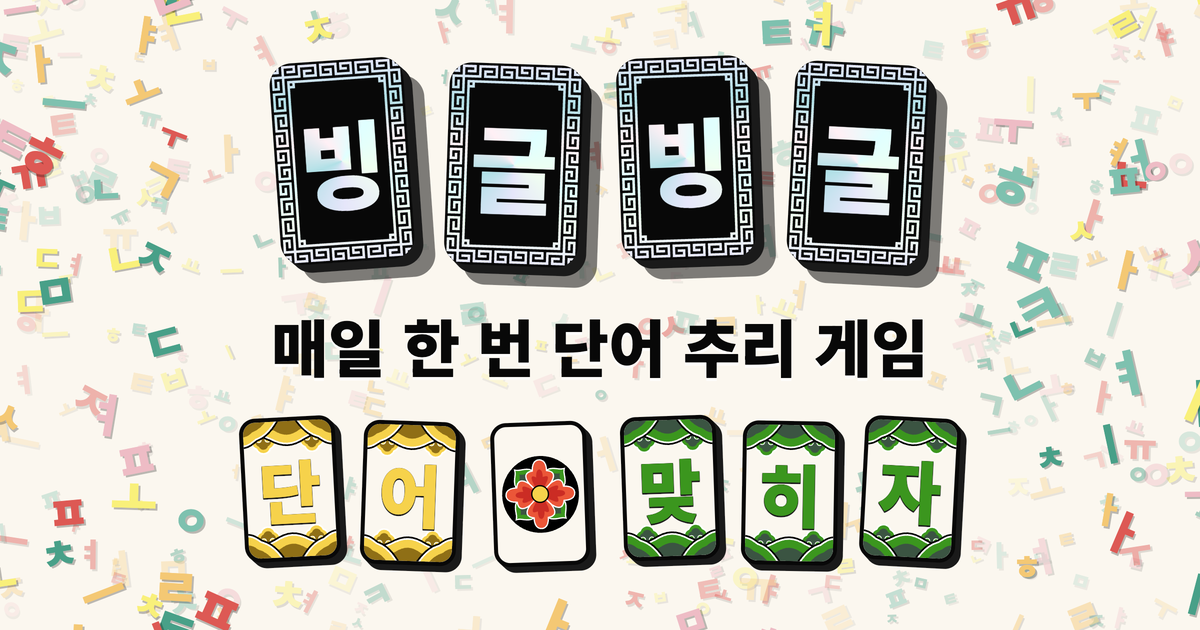
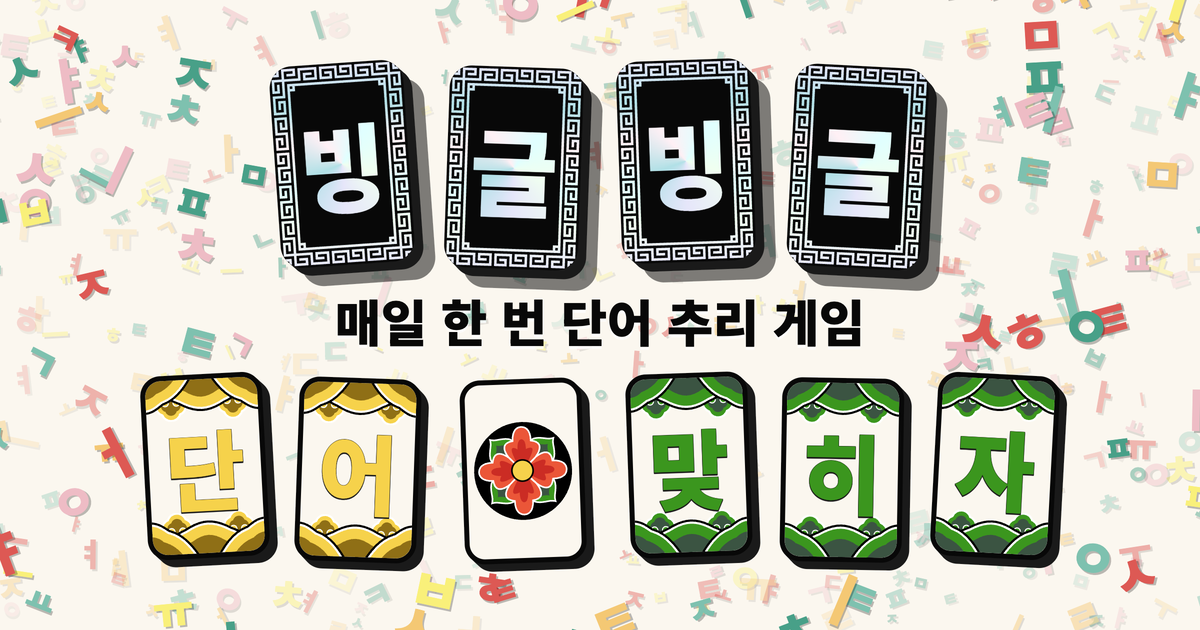
regenerate assets

diff --git a/src/asset-generation/SocialPreview.tsx b/src/asset-generation/SocialPreview.tsx
@@ -58,7 +58,7 @@ const confettiColors = [
 ] as const;
 
 const BACKGROUND_CONFETTI_SEED = 0x3d9a71;
-const FOREGROUND_CONFETTI_SEED = 0xc0ffee;
+const FOREGROUND_CONFETTI_SEED = 0x7a9d3f;
 const BACKGROUND_CONFETTI_COUNT = 440;
 const FOREGROUND_CONFETTI_COUNT = 110;
 
@@ -89,13 +89,17 @@ const backgroundConfettiParticles = generateConfettiParticles({
   minimumSize: 14,
   seed: BACKGROUND_CONFETTI_SEED,
 });
+// Keep full-color foreground jamo off the main content. Background confetti
+// still sits behind these areas, but foreground glyphs should not cross text or tiles.
+const foregroundConfettiExclusionAreas = [
+  { maximumLeft: 79, maximumTop: 46.5, minimumLeft: 21.2, minimumTop: 6.8 },
+  { maximumLeft: 74, maximumTop: 57.4, minimumLeft: 26, minimumTop: 45 },
+  { maximumLeft: 90.2, maximumTop: 92.8, minimumLeft: 9.8, minimumTop: 57 },
+] as const satisfies readonly ConfettiExclusionArea[];
+
 const foregroundConfettiParticles = generateConfettiParticles({
   count: FOREGROUND_CONFETTI_COUNT,
-  excludedAreas: [
-    // Keep full-color foreground jamo off the main content. Background confetti
-    // still sits behind this area, but foreground glyphs should not cross text or tiles.
-    { maximumLeft: 84, maximumTop: 96, minimumLeft: 16, minimumTop: 6 },
-  ],
+  excludedAreas: foregroundConfettiExclusionAreas,
   maximumOpacity: 1,
   maximumSize: 58,
   minimumOpacity: 1,

diff --git a/src/asset-generation/SocialPreview.module.css b/src/asset-generation/SocialPreview.module.css
@@ -53,7 +53,7 @@
   display: flex;
   flex-direction: column;
   align-items: center;
-  gap: 52px;
+  gap: 30px;
   transform: translateY(-4px);
 }
 
@@ -114,17 +114,17 @@
 }
 
 .description {
-  margin: 0 0 -10px;
+  margin: 0;
   color: var(--color-text);
   font-family: var(--font-family-ui);
-  font-size: 62px;
+  font-size: 50px;
   font-weight: 900;
   line-height: 1;
   text-shadow: 0 3px 0 rgb(255 255 255 / 0.78);
 }
 
 .callToAction {
-  --asset-tile-scale: 2;
+  --asset-tile-scale: 2.55;
   --tile-hitbox-size: calc(var(--asset-tile-base-hitbox-size) * var(--asset-tile-scale));
   --tile-gap: calc(var(--asset-tile-base-gap) * var(--asset-tile-scale));
   --tile-submission-history-gap: calc(
